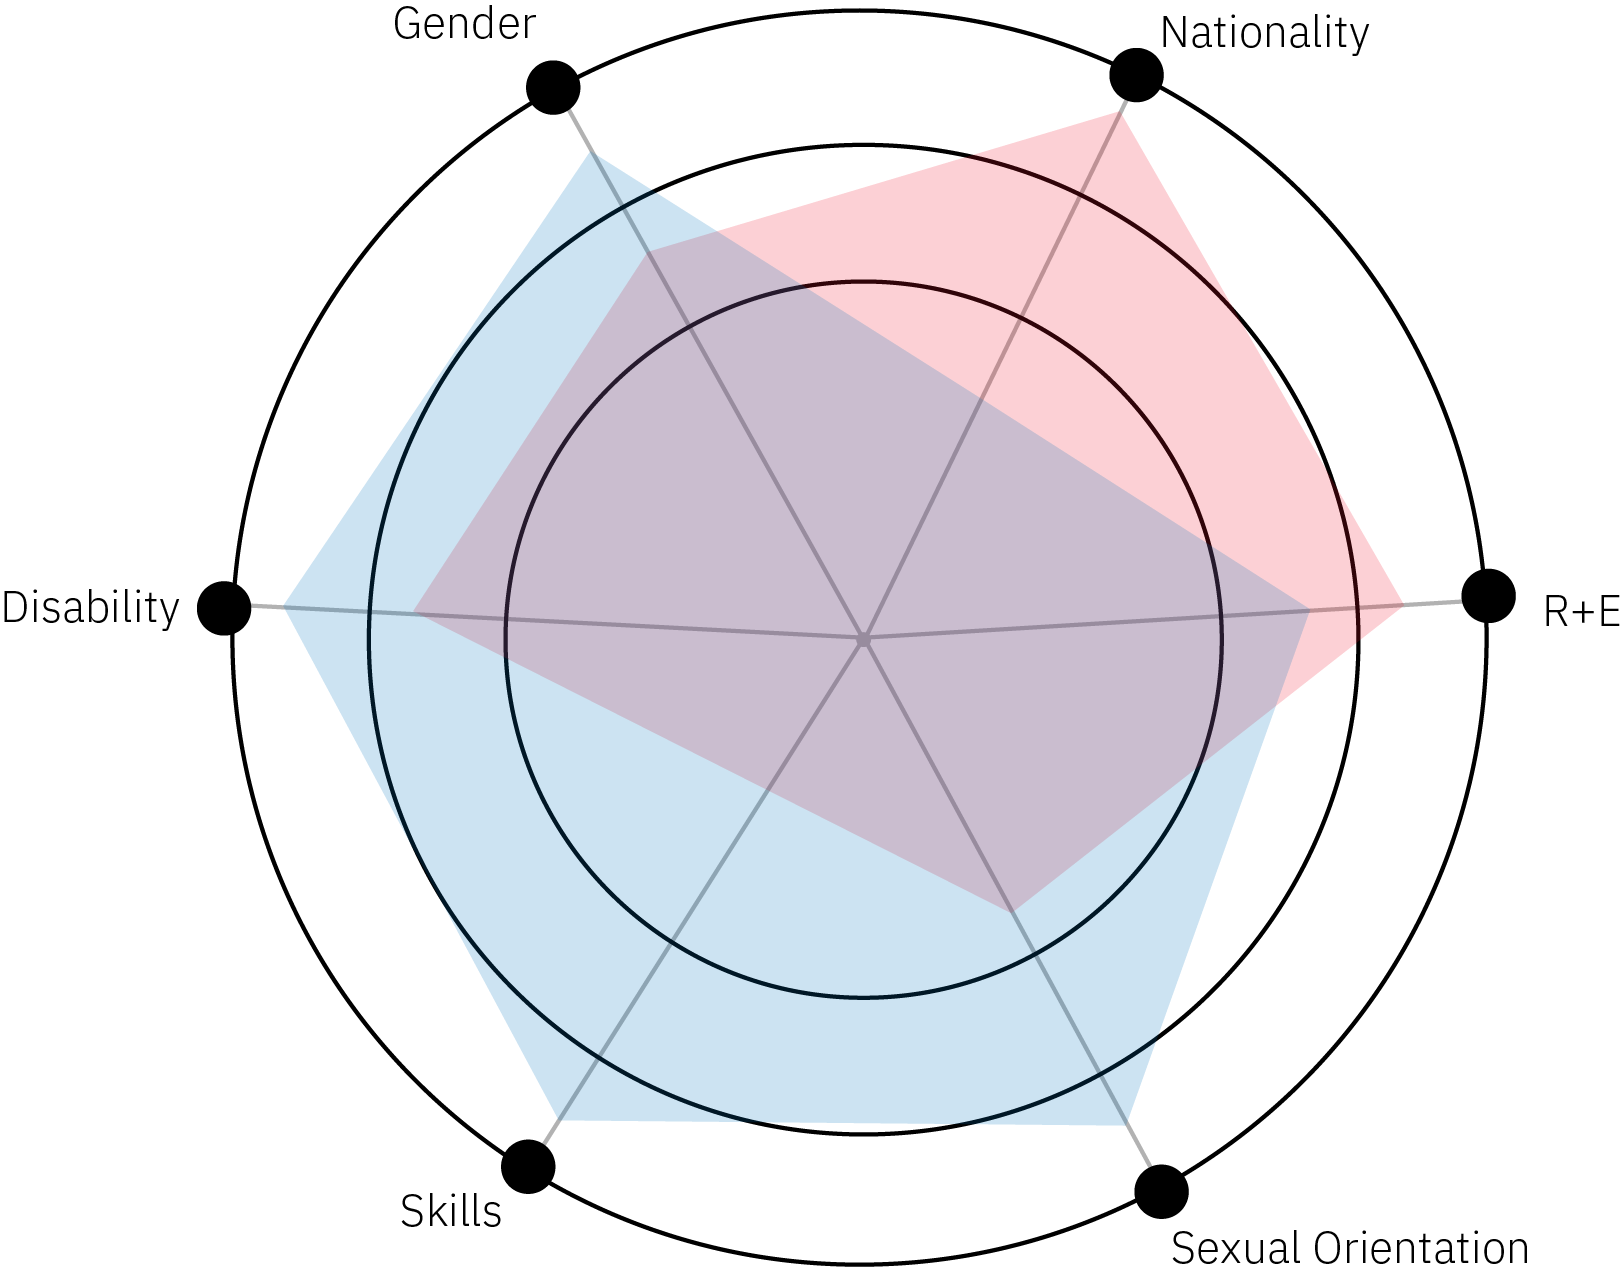
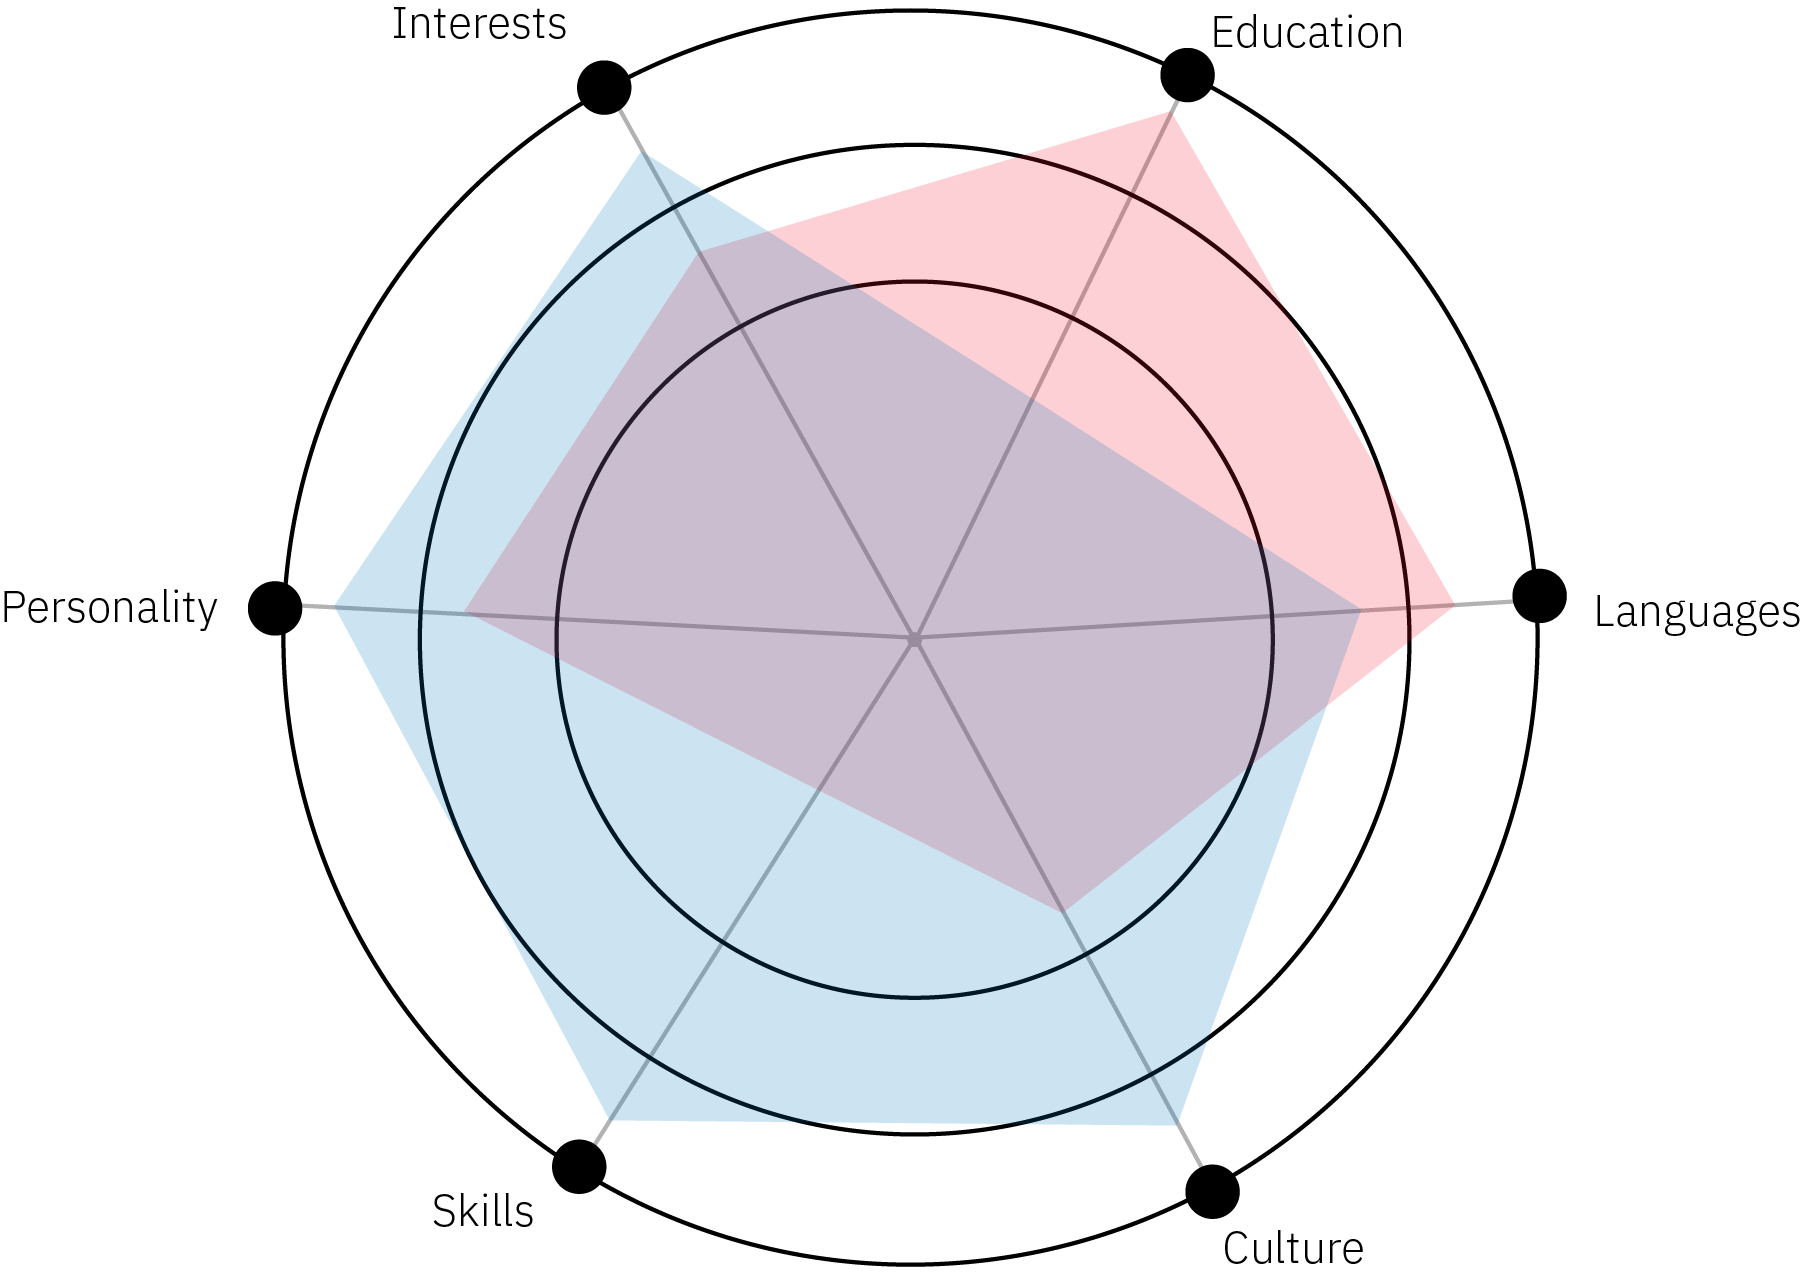
Redoing landing page

diff --git a/src/content/ComparisonPage/ComparisonPage.js b/src/content/ComparisonPage/ComparisonPage.js
@@ -25,24 +25,24 @@ const ComparisonPage = () => {
         <Tile>
             <table className="comparison-page--tile">
                 <tr className="comparison-page--table-header">
-                    <th><h1>HRU</h1><p className="comparison-page--left-header">Lorem ipsum dolor sit amet, ex erant legere eam, quot eleifend aliquando ea vim. Erat corpora platonem quo cu. Sensibus delicatissimi eum id, mel quidam equidem ut. Vis elit vitae temporibus.</p></th>
-                    <th><h1 className="comparison-page--right-header">AST</h1><p className="comparison-page--right-header">Lorem ipsum dolor sit amet, ex erant legere eam, quot eleifend aliquando ea vim. Erat corpora platonem quo cu. Sensibus delicatissimi eum id, mel quidam equidem ut. Vis elit vitae temporibus.</p></th>
+                    <th><h1>AST</h1><p className="comparison-page--left-header">I've lived in over 30 countries and love meeting new people. I have been self employed while traveling, and am comfortable with negotiating with team members.</p></th>
+                    <th><h1 className="comparison-page--right-header">HRU</h1><p className="comparison-page--right-header">I am from a large city and have experience working in a start-up environment. I work well in agile workspaces and hope to learn more about designing in a corporate workspace.</p></th>
                 </tr>
                 <tr>
                     <td><CheckMarkFilled20 className="comparison-page--icon"/>Perspective</td>
                     <td><CheckMarkFilled20 className="comparison-page--icon"/>Perspective</td>
                 </tr>
                 <tr>
-                    <td><CheckMarkFilled20 className="comparison-page--icon"/>Skills</td>
                     <td><CheckMarkOutline20 className="comparison-page--icon"/>Skills</td>
+                    <td><CheckMarkFilled20 className="comparison-page--icon"/>Skills</td>
                 </tr>
                 <tr>
                     <td><CheckMarkFilled20 className="comparison-page--icon"/>Education</td>
                     <td><CheckMarkFilled20 className="comparison-page--icon"/>Education</td>
                 </tr>
                 <tr>
-                    <td><CheckMarkOutline20 className="comparison-page--icon"/>Interests</td>
                     <td><CheckMarkFilled20 className="comparison-page--icon"/>Interests</td>
+                    <td><CheckMarkOutline20 className="comparison-page--icon"/>Interests</td>
                 </tr>
                 <tr>
                     <td><CheckMarkFilled20 className="comparison-page--icon"/>Personality</td>
@@ -53,8 +53,16 @@ const ComparisonPage = () => {
                     <td><CheckMarkOutline20 className="comparison-page--icon"/>Languages</td>
                 </tr>
                 <tr>
-                    <td><Button>Pin<Pin20 className="bx--btn__icon"/></Button></td>
-                    <td><Button>Pin<Pin20 className="bx--btn__icon"/></Button></td>
+                    <td>
+                        <Button onClick={console.log('clicked meee 1')}>
+                            Pin Candidate<Pin20 className="bx--btn__icon"/>
+                        </Button>
+                    </td>
+                    <td>
+                        <Button onClick={console.log('clicked meee 1')}>
+                            Pin Candidate<Pin20 className="bx--btn__icon"/>
+                        </Button>
+                    </td>
                 </tr>
             </table>
         </Tile>

diff --git a/src/content/LandingPage/LandingPage.js b/src/content/LandingPage/LandingPage.js
@@ -2,46 +2,32 @@ import React, { Component } from 'react';
 import RadarGraphImg from '../../assets/RadarGraph.png';
 import ResourceCard from '../../components/ResourceCard';
 
-class LandingPage extends Component {
+// icons
+import CheckMarkFilled20 from '@carbon/icons-react/lib/checkmark--filled/20';
+import ErrorFilled20 from '@carbon/icons-react/lib/error--filled/20';
 
-  constructor(props) {
-    super(props);
-    this.state = {
-      selectedOption: "option1"
-    };
-  };
+class LandingPage extends Component {
 
   render () {
     return ( 
       <div className="bx--grid bx--grid--full-width">
         <div className="bx--row">
-            <div className="bx--col-lg-4 landing-page--left-container">
-              <h1>Your Diversity Graph</h1>
-              <img src={RadarGraphImg} alt="whatever" className="landing-page--radar-graph" />
-              <h2>Strengths:</h2>
-              <p>Lorem ipsum dolor sit amet, consectetur adipiscing elit, sed do eiusmod tempor incididunt ut labore et dolore magna aliqua.</p>
-              <p>Lorem ipsum dolor sit amet, consectetur adipiscing elit, sed do eiusmod tempor incididunt ut labore et dolore magna aliqua.</p>
-              <h2>Weaknesses:</h2>
-              <p>Lorem ipsum dolor sit amet, consectetur adipiscing elit, sed do eiusmod tempor incididunt ut labore et dolore magna aliqua.</p>
+            <div className="bx--col-md-4 landing-page--container">
+              <img src={RadarGraphImg} alt="CHANGE ME HEATHER!!!!!!!!" className="landing-page--radar-graph" />
             </div>
-            <div className="bx--col-lg-1"></div>
-            <div className="bx--col-lg-7 landing-page--left-container">
-              <div className="landing-page--right-container-trainings">
-                <h2>Suggested Trainings:</h2>
-                <div className="bx--row">
-                  <ResourceCard />
-                  <ResourceCard />
-                  <ResourceCard />
-                </div>
-              </div>
-              <div className="landing-page--right-container-resources">
-                <h2>Suggested Resources:</h2>
-                <div className="bx--row">
-                  <ResourceCard />
-                  <ResourceCard />
-                  <ResourceCard />
-                </div>
-              </div>
+            <div className="bx--col-md-2 landing-page--container">
+              <h2>Your Strengths:</h2>
+              <h3><CheckMarkFilled20 />Education</h3>
+              <p>Your team has a wide variety of educational backgrounds and certifications. This means your team is well-equipped to tackle problems from many different academic perspectives.</p>
+              <h3><CheckMarkFilled20 />Languages</h3>
+              <p>Your team has a diverse set of communication styles, meaning your team has many ways of listening and sharing ideas.</p>
+            </div>
+            <div className="bx--col-md-2 landing-page--container">
+              <h2>Room to Improve:</h2>
+              <h3><ErrorFilled20 />Skills</h3>
+              <p>Your team's skills are limited mostly to technical experience. Tap into your team's potential to grow their skillset through the resources below.</p>
+              <h3><ErrorFilled20 />Culture</h3>
+              <p>Having a low score in culture means your team comes from similar backgrounds. You may have a limited perspective when tackling new projects.</p>
             </div>
         </div>
       </div>

diff --git a/src/content/TalentPoolPage/TalentPoolPage.js b/src/content/TalentPoolPage/TalentPoolPage.js
@@ -35,7 +35,7 @@ const TalentPoolPage = () => {
             <EmployeeCard
                 checkMarkID="checkbox-1"
                 initials="HRU"
-                description="Lorem ipsum dolor sit amet, ex erant legere eam, quot eleifend aliquando ea vim. Erat corpora platonem quo cu. Sensibus delicatissimi eum id, mel quidam equidem ut. Vis elit vitae temporibus."
+                description="I am from a large city and have experience working in a start-up environment. I work well in agile workspaces and hope to learn more about designing in a corporate workspace."
                 location="Cambridge, MA"
                 bandLevel="Band 7"
                 relocate={true}
@@ -50,7 +50,7 @@ const TalentPoolPage = () => {
             <EmployeeCard
                 checkMarkID="checkbox-2"
                 initials="CRT"
-                description="Lorem ipsum dolor sit amet, ex erant legere eam, quot eleifend aliquando ea vim. Erat corpora platonem quo cu. Sensibus delicatissimi eum id, mel quidam equidem ut. Vis elit vitae temporibus."
+                description="I am passionate about social sciences and incorporating them into design. I come from a culturally diverse city and have worked at large companies similar to IBM's size in the past."
                 location="Austin, TX"
                 bandLevel="Band 7"
                 relocate={false}
@@ -65,7 +65,7 @@ const TalentPoolPage = () => {
             <EmployeeCard
                 checkMarkID="checkbox-3"
                 initials="AST"
-                description="Lorem ipsum dolor sit amet, ex erant legere eam, quot eleifend aliquando ea vim. Erat corpora platonem quo cu. Sensibus delicatissimi eum id, mel quidam equidem ut. Vis elit vitae temporibus."
+                description="I've lived in over 30 countries and love meeting new people. I have been self employed while traveling, and am comfortable with negotiating with team members."
                 location="San Jose, CA"
                 bandLevel="Band 8"
                 relocate={true}

diff --git a/src/components/EmployeeCard/EmployeeCard.js b/src/components/EmployeeCard/EmployeeCard.js
@@ -19,6 +19,17 @@ import AddInfoButton from '../AddInfoButton';
 
 class EmployeeCard extends Component {
 
+    state = {
+        pinned: false
+    };
+
+    // determines if the employee card will be pinned or not
+    isPinned(){
+        if (this.state.pinned){
+            return <div className="employee-card--pinned"><Pin20 /></div>
+        }
+    }
+
     // determines if the employee card will show able to relocate or not
     relocation(){
         if (this.props.relocate) {
@@ -76,9 +87,7 @@ class EmployeeCard extends Component {
                         </div>
                     </div>
                 </div>
-                <div className="employee-card--pinned">
-                    <Pin20 />
-                </div>
+                {this.isPinned()}
                 <div className="employee-card--info-button">
                     <AddInfoButton />
                 </div>

diff --git a/src/content/LandingPage/_landing-page.scss b/src/content/LandingPage/_landing-page.scss
@@ -1,22 +1,8 @@
-.landing-page--left-container {
-    background-color: #f3f3f3;
-}
-
 .landing-page--radar-graph {
-    padding-top: 36px;
-    padding-bottom: 36px;
-    height: 20%;
+    //height: 306px;
+    height: 25%;
 }
 
-.landing-page--right-container-trainings {
+.landing-page--container {
     background-color: #f3f3f3;
-    padding: 0;
-}
-
-.landing-page--right-container-resources {
-    background-color: #f3f3f3;
-}
-
-.landing-page--left-container {
-    padding: 0 !important;
 }
